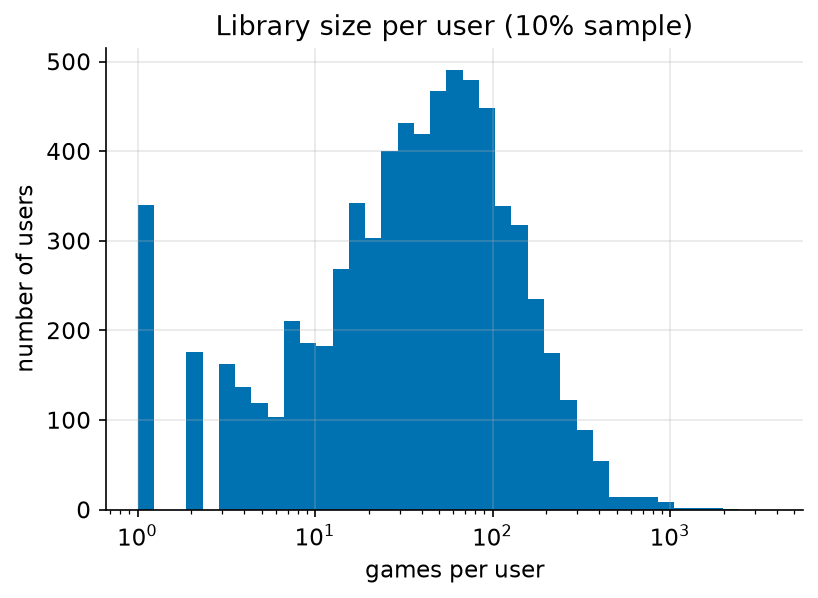
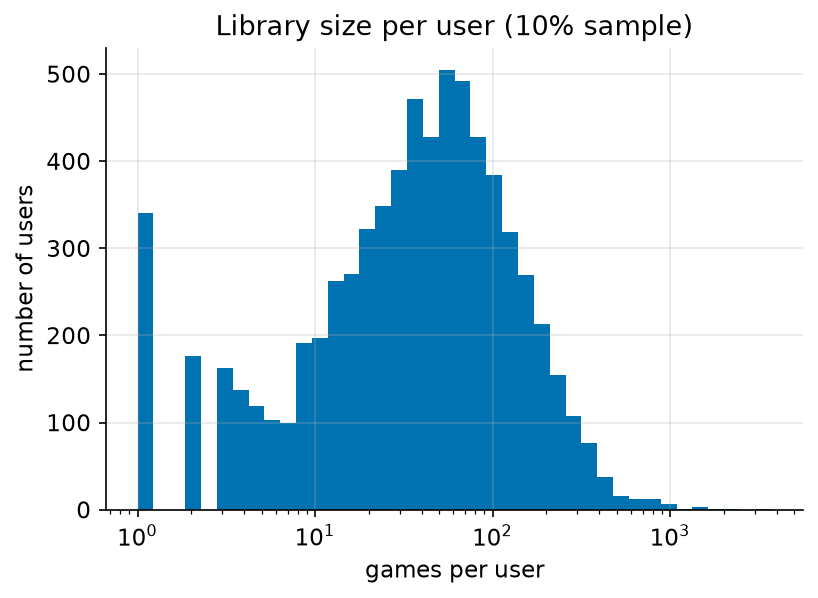
update for eda

diff --git a/src/assignment_2/modules/core/plots.py b/src/assignment_2/modules/core/plots.py
@@ -10,9 +10,12 @@
 
 from pathlib import Path
 
+from matplotlib.axes import Axes
 import matplotlib.pyplot as plt
 from cycler import cycler
 from matplotlib.figure import Figure
+import numpy as np
+from numpy.typing import ArrayLike
 
 from assignment_2.modules.config import Config, get_config
 
@@ -58,3 +61,24 @@ def save(fig: Figure, name: str, cfg: Config | None = None) -> Path:
     path = cfg.paths.figures / filename
     fig.savefig(path, dpi=150, bbox_inches="tight")
     return path
+
+
+def log_hist(
+    ax: Axes,
+    values: ArrayLike,
+    xlabel: str,
+    ylabel: str,
+    title: str = "",
+    n_bins: int = 40,
+    log_y: bool = False,
+) -> Axes:
+    """Histogram with log-spaced bins on a log x-axis, for long-tailed counts. Returns ax."""
+    values = np.asarray(values, dtype=float)
+    if (values <= 0).any():
+        raise ValueError("log_hist needs values > 0; filter out zeros first")
+    bins = np.geomspace(values.min(), values.max(), n_bins + 1)
+    ax.hist(values, bins=bins)
+    ax.set(xscale="log", yscale="log" if log_y else "linear",
+           xlabel=xlabel, ylabel=ylabel, title=title)  # fmt: skip
+    
+    return ax

diff --git a/src/assignment_2/modules/core/__init__.py b/src/assignment_2/modules/core/__init__.py
@@ -1,5 +1,5 @@
 from .metrics import calc_accuracy, calc_auc, calc_ber, calc_mae, calc_mse
-from .plots import save, use_style
+from .plots import log_hist, save, use_style
 
 __all__ = [
     "calc_accuracy",
@@ -7,6 +7,7 @@ __all__ = [
     "calc_ber",
     "calc_mae",
     "calc_mse",
+    "log_hist",
     "save",
     "use_style",
 ]
